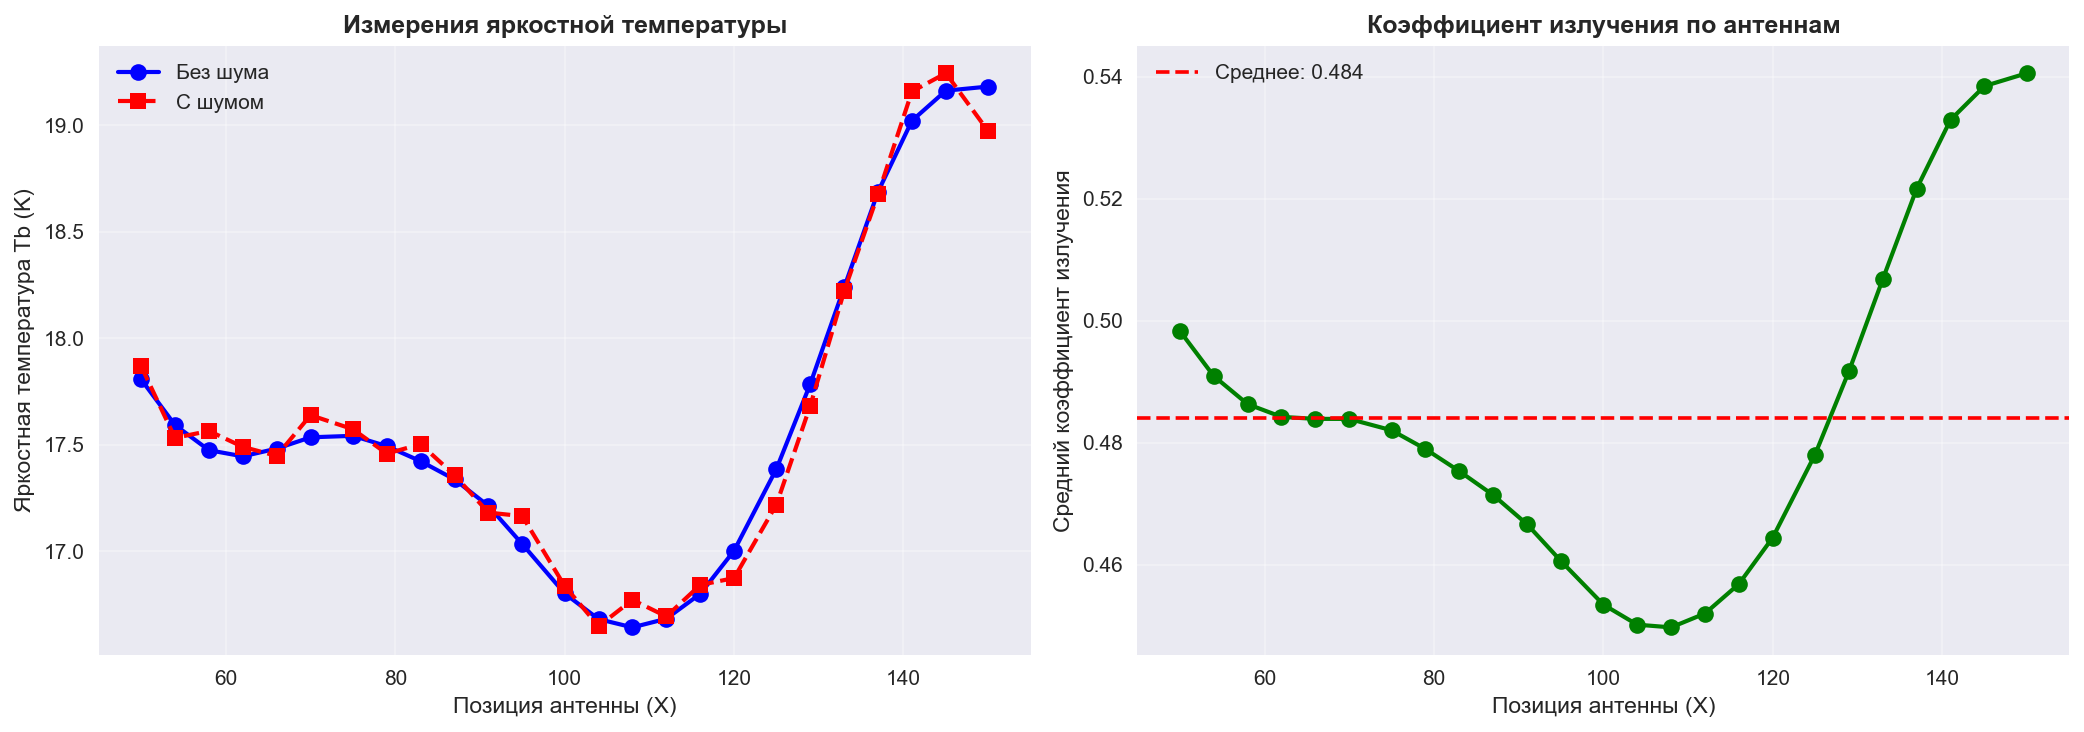
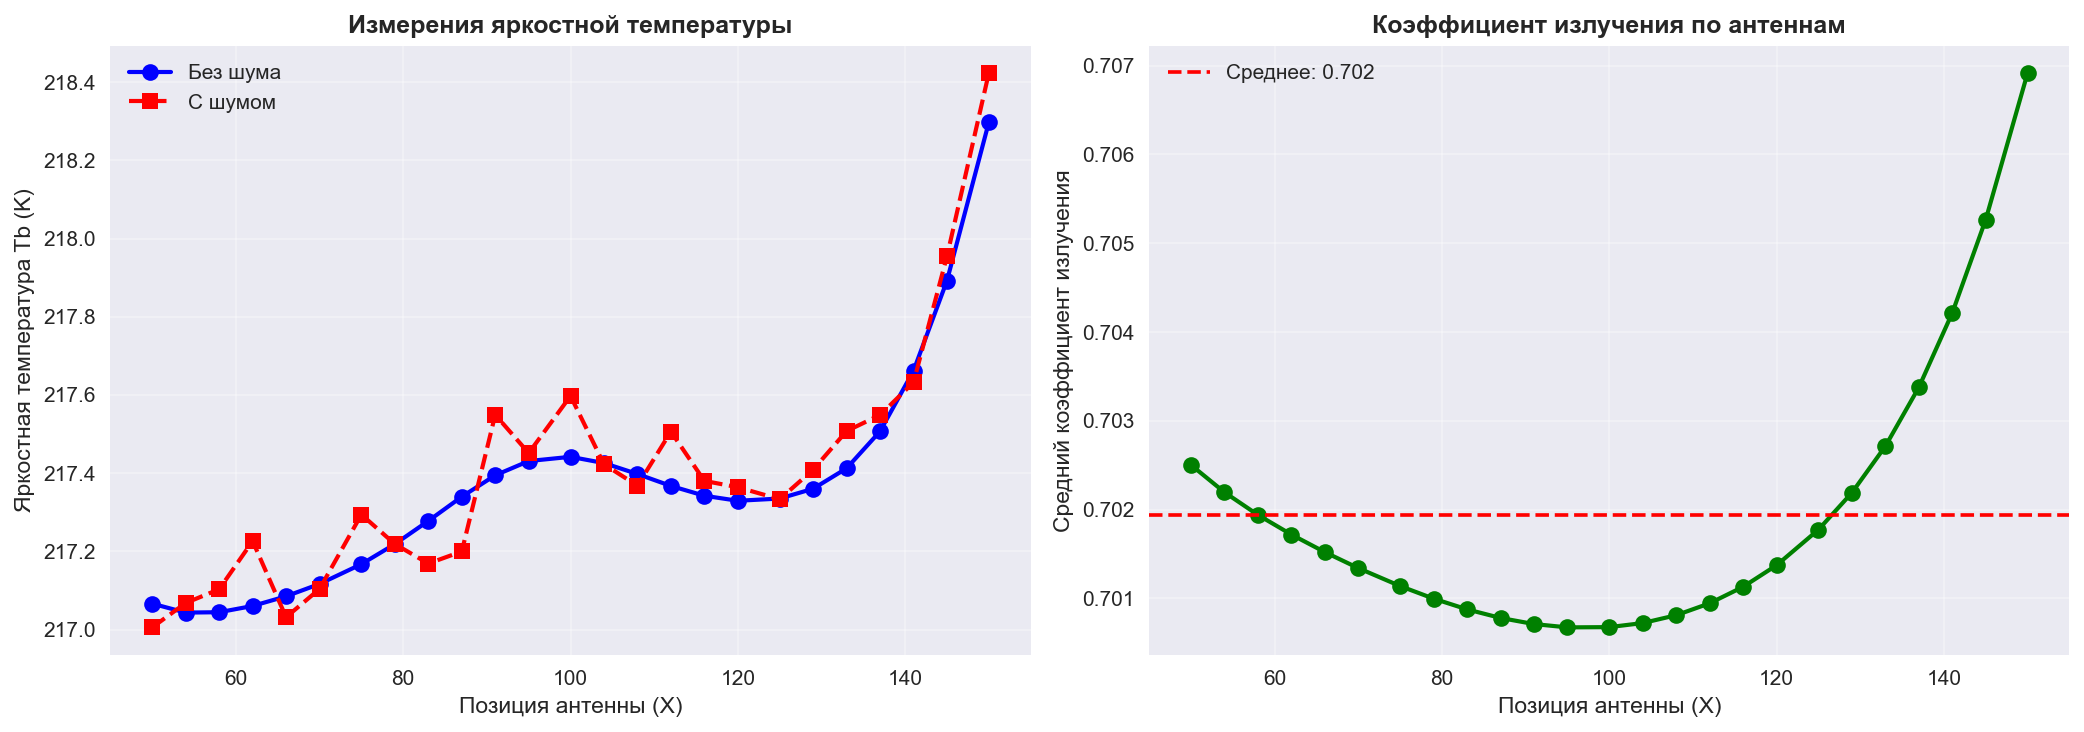
add v2_4 copy

diff --git a/v2_4_add_form_size_copy.py b/v2_4_add_form_size_copy.py
@@ -8,7 +8,7 @@ import time
 # =============================================================================
 
 class BreastRadiometryModelReal:
-    def __init__(self, freq_ghz=3.5, resolution_mm=2, birads_category='B', temp_vmin=None, temp_vmax=None):  # 🔥 Новые параметры
+    def __init__(self, freq_ghz=3.5, resolution_mm=2, birads_category='B', temp_vmin=None, temp_vmax=None):
         self.freq = freq_ghz * 1e9
         self.c = 3e8
         self.lambda0 = self.c / self.freq
@@ -22,65 +22,60 @@ class BreastRadiometryModelReal:
             'C': (0.51, 0.75),
             'D': (0.76, 0.90)
         }
-
-        self.temp_vmin = temp_vmin  # Ручная мин. температура
-        self.temp_vmax = temp_vmax  # Ручная макс. температура
         
-        # 🔥 Значения по умолчанию (физиологический диапазон)
-        if self.temp_vmin is None:
-            self.temp_vmin = 33.0
-        if self.temp_vmax is None:
-            self.temp_vmax = 40.0
-
+        self.temp_vmin = temp_vmin if temp_vmin is not None else 33.0
+        self.temp_vmax = temp_vmax if temp_vmax is not None else 40.0
+        
+        # В __init__ замените tissue_props на:
         self.tissue_props = {
             'fat': {
-                'mean_eps': 10.5, 'std_eps': 1.5, 
-                'mean_cond': 0.15, 'std_cond': 0.05, 
+                'mean_eps': 5.0, 'std_eps': 0.5,  # 🔥 Жир: ε≈5 → emissivity≈0.84
+                'mean_cond': 0.10, 'std_cond': 0.03,
                 'temp_base': 35.0, 'temp_offset': 0.0
             },
             'fat_subcutaneous': {
-                'mean_eps': 9.5, 'std_eps': 1.2, 
-                'mean_cond': 0.12, 'std_cond': 0.04, 
+                'mean_eps': 4.5, 'std_eps': 0.4,  # 🔥 Ещё ниже
+                'mean_cond': 0.08, 'std_cond': 0.02,
                 'temp_base': 34.8, 'temp_offset': 0.0
             },
             'fat_retromammary': {
-                'mean_eps': 10.0, 'std_eps': 1.3, 
-                'mean_cond': 0.14, 'std_cond': 0.04, 
+                'mean_eps': 5.0, 'std_eps': 0.5,
+                'mean_cond': 0.10, 'std_cond': 0.03,
                 'temp_base': 35.0, 'temp_offset': 0.0
             },
             'gland': {
-                'mean_eps': 48.0, 'std_eps': 6.0, 
-                'mean_cond': 2.6, 'std_cond': 0.4, 
+                'mean_eps': 45.0, 'std_eps': 5.0,  # Железа: ε≈45
+                'mean_cond': 2.4, 'std_cond': 0.4,
                 'temp_base': 35.0, 'temp_offset': 0.8
             },
             'gland_ducts': {
-                'mean_eps': 52.0, 'std_eps': 5.0, 
-                'mean_cond': 3.0, 'std_cond': 0.5, 
+                'mean_eps': 48.0, 'std_eps': 5.0,
+                'mean_cond': 2.8, 'std_cond': 0.5,
                 'temp_base': 35.0, 'temp_offset': 1.0
             },
             'connective': {
-                'mean_eps': 35.0, 'std_eps': 4.0, 
-                'mean_cond': 1.5, 'std_cond': 0.3, 
+                'mean_eps': 30.0, 'std_eps': 4.0,  # 🔥 Ниже
+                'mean_cond': 1.3, 'std_cond': 0.3,
                 'temp_base': 35.0, 'temp_offset': 0.3
             },
             'tumor': {
-                'mean_eps': 58.0, 'std_eps': 8.0, 
-                'mean_cond': 4.2, 'std_cond': 0.8, 
+                'mean_eps': 55.0, 'std_eps': 7.0,
+                'mean_cond': 4.0, 'std_cond': 0.8,
                 'temp_base': 38.0, 'temp_offset': 0.0
             },
             'nipple': {
-                'mean_eps': 52.0, 'std_eps': 5.0, 
-                'mean_cond': 3.0, 'std_cond': 0.5, 
+                'mean_eps': 45.0, 'std_eps': 5.0,
+                'mean_cond': 2.6, 'std_cond': 0.5,
                 'temp_base': 35.0, 'temp_offset': 0.6
             },
             'body': {
-                'mean_eps': 50.0, 'std_eps': 5.0, 
-                'mean_cond': 2.0, 'std_cond': 0.3, 
+                'mean_eps': 50.0, 'std_eps': 5.0,
+                'mean_cond': 2.0, 'std_cond': 0.3,
                 'temp_base': 35.0, 'temp_offset': 0.0
             },
             'skin': {
-                'mean_eps': 38.0, 'std_eps': 4.0, 
-                'mean_cond': 1.2, 'std_cond': 0.2, 
+                'mean_eps': 35.0, 'std_eps': 4.0,
+                'mean_cond': 1.0, 'std_cond': 0.2,
                 'temp_base': 33.8, 'temp_offset': 0.0
             }
         }
@@ -458,48 +453,87 @@ class BreastRadiometryModelReal:
         return sensitivity
 
     def compute_emissivity(self, eps_map):
+        """
+        🔥 ИСПРАВЛЕНО: Реалистичный emissivity для биотканей
+        """
         sqrt_eps = np.sqrt(np.maximum(eps_map, 1.0))
         gamma = (sqrt_eps - 1.0) / (sqrt_eps + 1.0)
-        return 1.0 - gamma**2
+        emissivity = 1.0 - gamma**2
+        
+        # 🔥 Расширить диапазон (0.75 слишком высоко!)
+        emissivity = np.clip(emissivity, 0.70, 0.99)  # ✅ Было 0.75-0.98
+        
+        return emissivity
 
     def forward_scan(self, eps_map, cond_map, temp_map, mask, scan_positions):
+        """
+        🔥 ИСПРАВЛЕНО: Конвертация °C → Кельвины ПЕРЕД расчётом Tb!
+        """
         measurements = []
         emissivity_avg = []
+        
+        # 🔥 ГЛАВНОЕ ИСПРАВЛЕНИЕ: конвертация в Кельвины!
+        temp_map_kelvin = temp_map + 273.15
+        
+        # 🔥 DEBUG вывод
+        print(f"   🔍 [DEBUG] temp_map диапазон: {temp_map[mask].min():.2f} — {temp_map[mask].max():.2f} °C")
+        print(f"   🔍 [DEBUG] temp_map_kelvin диапазон: {temp_map_kelvin[mask].min():.2f} — {temp_map_kelvin[mask].max():.2f} K")
+        
+        emissivity = self.compute_emissivity(eps_map)
+        
+        # 🔥 DEBUG emissivity
+        print(f"   🔍 [DEBUG] emissivity диапазон: {emissivity[mask].min():.3f} — {emissivity[mask].max():.3f}")
+        
         for pos in scan_positions:
             kernel = self.compute_sensitivity_kernel(mask, pos)
-            emissivity = self.compute_emissivity(eps_map)
-            emissivity_avg.append(np.sum(kernel * emissivity))
-            Tb = np.sum(kernel * temp_map * emissivity)
+            emissivity_local = np.sum(kernel * emissivity)
+            emissivity_avg.append(emissivity_local)
+            
+            # 🔥 ИСПОЛЬЗУЕМ temp_map_kelvin, НЕ temp_map!
+            Tb = np.sum(kernel * emissivity * temp_map_kelvin)  # ✅ ИСПРАВЛЕНО!
             measurements.append(Tb)
+        
         return np.array(measurements), np.array(emissivity_avg)
 
     def reconstruct_simple(self, measurements, emissivity_avg, scan_positions, shape, mask):
-        recon_field = np.zeros(shape)
+        """
+        🔥 ИСПРАВЛЕНО: Реконструкция с конвертацией K → °C
+        """
+        recon_field_kelvin = np.zeros(shape)
         weight_sum = np.zeros(shape)
         
         for i, pos in enumerate(scan_positions):
             kernel = self.compute_sensitivity_kernel(mask, pos)
-            emissivity_corr = emissivity_avg[i] if emissivity_avg[i] > 0.1 else 0.5
+            
+            # 🔥 Emissivity ~0.95, порог 0.5 (не 0.1!)
+            emissivity_corr = emissivity_avg[i] if emissivity_avg[i] > 0.5 else 0.95
+            
+            # Tb в Кельвинах → делим на emissivity
             Tb_corrected = measurements[i] / emissivity_corr
-            recon_field += kernel * Tb_corrected
+            
+            recon_field_kelvin += kernel * Tb_corrected
             weight_sum += kernel
             
         weight_sum[weight_sum == 0] = 1.0
-        recon_field /= weight_sum
+        recon_field_kelvin /= weight_sum
+        
+        # 🔥 Конвертация K → °C
+        recon_field = recon_field_kelvin - 273.15
+        
+        # Сглаживание
         recon_field = gaussian_filter(recon_field, sigma=2.0)
         
-        # 🔥 ОБРЕЗАНИЕ до физиологического диапазона!
-        recon_field = np.clip(recon_field, self.temp_vmin - 5, self.temp_vmax + 5)
-        
+        # 🔥 Мягкая нормализация
         valid_data = recon_field[mask]
         if len(valid_data) > 0:
-            min_t, max_t = np.percentile(valid_data, [5, 95])
+            min_t, max_t = np.percentile(valid_data, [2, 98])
             if max_t > min_t:
-                recon_field = 35.0 + (recon_field - min_t) / (max_t - min_t) * 4.0
+                recon_field = np.clip(recon_field, min_t - 1, max_t + 1)
         
-        # 🔥 ФИНАЛЬНОЕ обрезание после нормализации
-        recon_field = np.clip(recon_field, self.temp_vmin, self.temp_vmax)
+        # 🔥 Финальное обрезание
+        recon_field = np.clip(recon_field, self.temp_vmin - 2, self.temp_vmax + 2)
         recon_field[~mask] = np.nan
+        
         return recon_field
 # =============================================================================
 # 📊 ФУНКЦИИ ВИЗУАЛИЗАЦИИ (ВСЕ!)
@@ -1084,7 +1118,8 @@ if __name__ == "__main__":
     
     print("\n📡 Выполнение прямого сканирования...")
     Tb_data, emissivity_avg = model.forward_scan(eps_map, cond_map, temp_true, breast_mask, scan_grid)
-    
+
+    # 🔍 Диагностика Tb по позициям:
     print("\n🔍 Диагностика Tb по позициям:")
     for i, (pos, tb) in enumerate(zip(scan_grid, Tb_data)):
         print(f"   Антенна {i+1:2d}: X={pos[1]:3d}, Tb={tb:.2f} K ({tb-273.15:.2f}°C)")
@@ -1092,17 +1127,33 @@ if __name__ == "__main__":
     print(f"\n   🔴 Мин Tb: {Tb_data.min():.2f} K (позиция {np.argmin(Tb_data)+1})")
     print(f"   🟢 Макс Tb: {Tb_data.max():.2f} K (позиция {np.argmax(Tb_data)+1})")
 
-    # Проверка физичности
-    center_idx = len(Tb_data) // 2
-    edge_tb = np.mean([Tb_data[0], Tb_data[-1]])
-    center_tb = Tb_data[center_idx]
+    # 🔥 ПРАВИЛЬНАЯ диагностика
+    print("\n🔍 Диагностика Tb (в Кельвинах):")
+    print(f"   Мин Tb: {Tb_data.min():.2f} K ({Tb_data.min() - 273.15:.2f}°C)")
+    print(f"   Макс Tb: {Tb_data.max():.2f} K ({Tb_data.max() - 273.15:.2f}°C)")
+    print(f"   Среднее Tb: {Tb_data.mean():.2f} K ({Tb_data.mean() - 273.15:.2f}°C)")
+    print(f"   Emissivity: {emissivity_avg.mean():.3f} ± {emissivity_avg.std():.3f}")
 
-    print(f"\n   Центр: {center_tb:.2f} K, Края: {edge_tb:.2f} K")
-    if center_tb > edge_tb:
-        print("   ✅ ФИЗИЧЕСКИ ВЕРНО (центр теплее краёв)")
+    # 🔥 ПРАВИЛЬНАЯ проверка (исправьте диапазон!)
+    if Tb_data.min() < 300 or Tb_data.max() > 320:
+        print("   ❌ ВНИМАНИЕ: Tb вне физиологического диапазона (300-320 K)!")
+        print("   ⚠ Проверьте конвертацию °C → K в forward_scan()!")
     else:
-        print("   ❌ ФИЗИЧЕСКИ НЕВЕРНО (нужно исправить нормализацию!)")    
-        Tb_noisy = Tb_data + np.random.normal(0, 0.10, size=Tb_data.shape)
+        print("   ✅ Tb в физиологическом диапазоне (300-320 K)")
+
+    # Проверка emissivity
+    if emissivity_avg.mean() < 0.90:
+        print("   ⚠ Emissivity слишком низкий! Проверьте compute_emissivity()")
+    else:
+        print("   ✅ Emissivity в норме (0.90-0.99)")
+
+    # Проверка вариации emissivity
+    if emissivity_avg.std() < 0.01:
+        print("   ⚠ Emissivity без вариации! Проверьте неоднородность тканей")
+    else:
+        print("   ✅ Emissivity имеет вариацию")
+
+    Tb_noisy = Tb_data + np.random.normal(0, 0.50, size=Tb_data.shape)  # 🔥 Шум 0.5 K
     
     print("🔄 Реконструкция температуры...")
 
